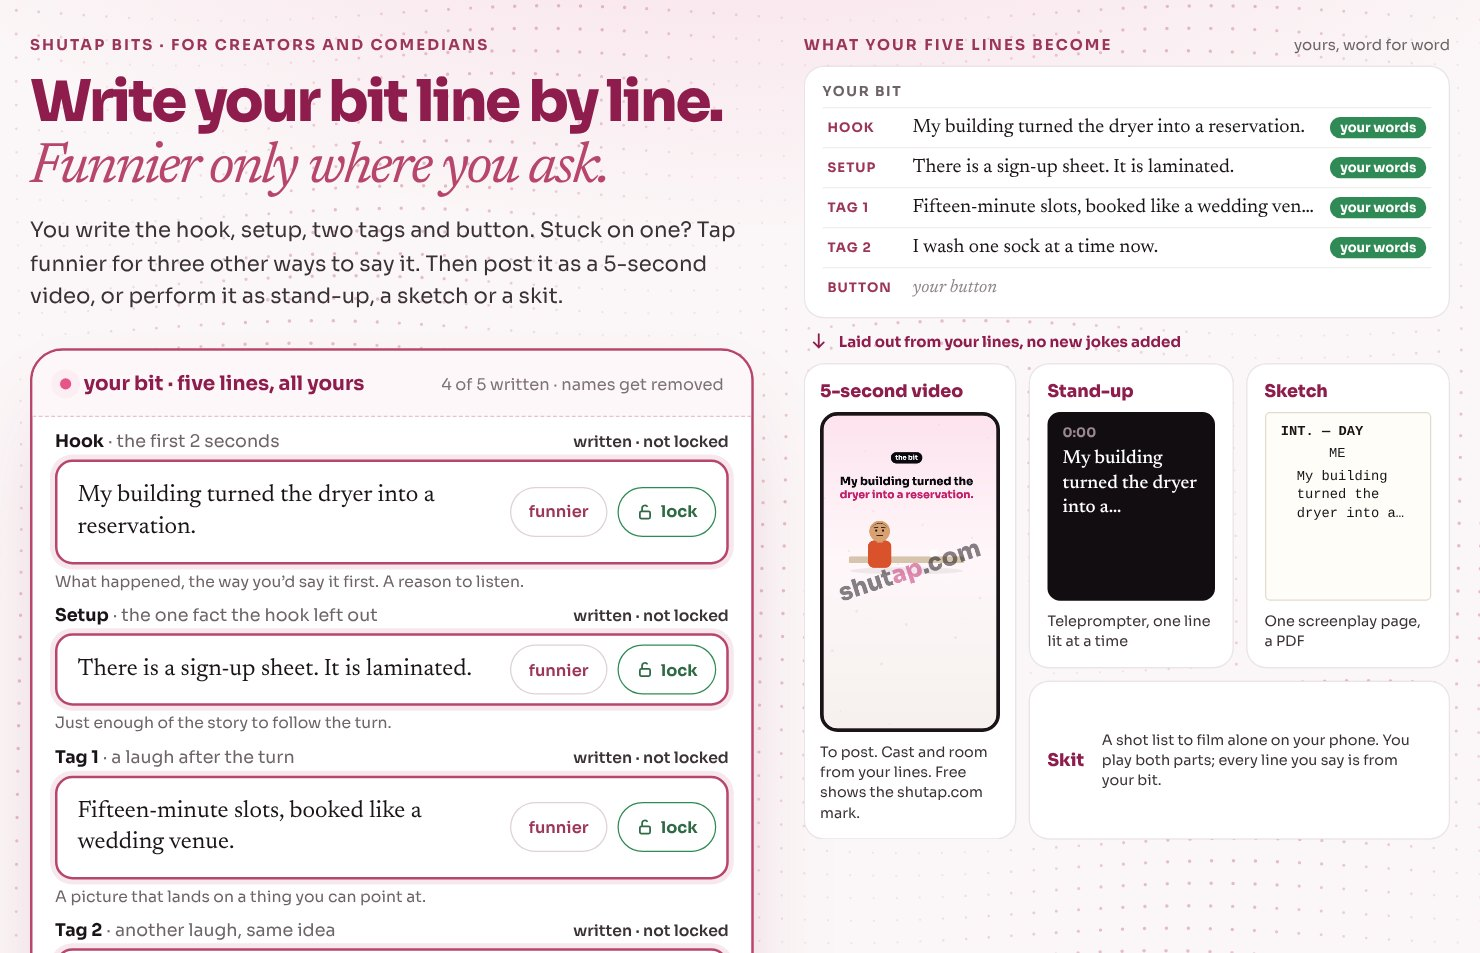
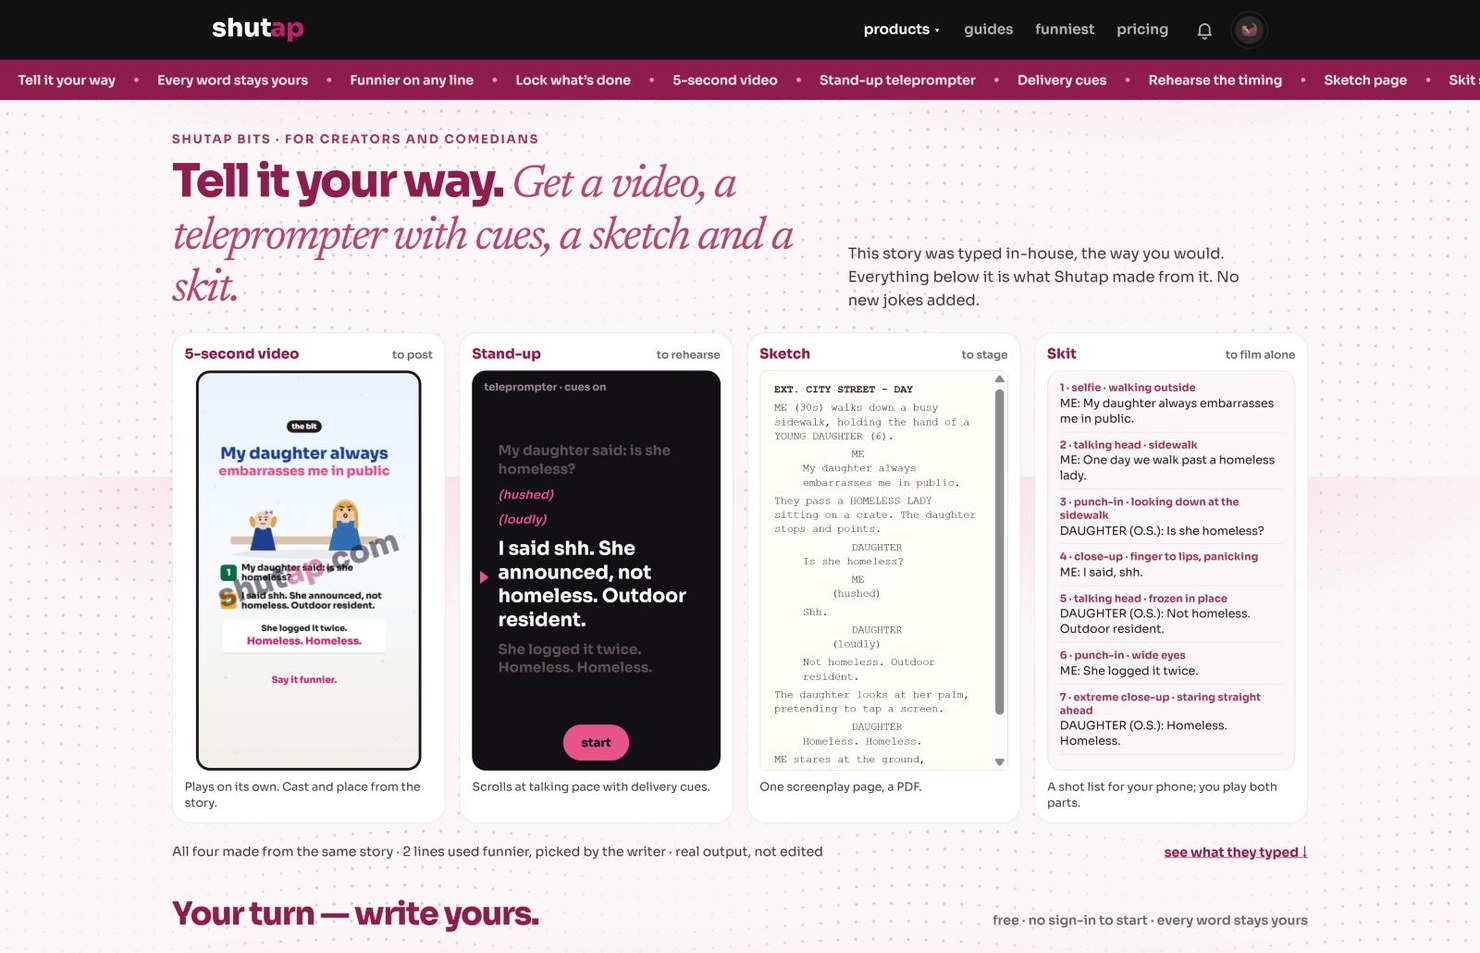
Homepage Bits: screenshot of the new /bits first screen (#276)
The homepage Bits section showed the old five-box page. New capture of the
live /bits (Nov 12): the demo bit's four outputs side by side, the video on
its last frame and the teleprompter on the line with its (hushed) and
(loudly) cues. The typing motion is removed (it was placed over the old
boxes); alt text updated.

Claude-Session: https://claude.ai/code/session_01VFctWuFxVfHjbi4UBffGEi

diff --git a/src/pages/home/ShotMotion.tsx b/src/pages/home/ShotMotion.tsx
@@ -16,16 +16,9 @@ type ShotEffect = Typing | Writing
 
 type ShotMotionSpec = { seconds: number; effects: ShotEffect[] }
 
-/** Bits (Nov 8 2026, the new /bits first screen): the writer types the hook
- *  (two lines in the capture), then the setup, into the five-line box. */
-const BITS: ShotMotionSpec = {
-  seconds: 10,
-  effects: [
-    { kind: 'type', box: { left: 5.24, top: 50.4, width: 24.64, height: 3.6 }, chars: 36, from: 4, to: 24, then: true },
-    { kind: 'type', box: { left: 5.24, top: 53.77, width: 8.52, height: 3.6 }, chars: 12, from: 25, to: 32 },
-    { kind: 'type', box: { left: 5.24, top: 68.64, width: 27.16, height: 3.6 }, chars: 42, from: 36, to: 58 },
-  ],
-}
+/** Bits (Nov 12 2026, the new /bits first screen): the four outputs of the
+ *  demo bit are the picture; nothing is typed over them, so no motion. */
+const BITS: ShotMotionSpec = { seconds: 10, effects: [] }
 
 /** Toasts: story 1 is typed, two lines. */
 const TOASTS: ShotMotionSpec = {

diff --git a/src/pages/home/ProductHome.tsx b/src/pages/home/ProductHome.tsx
@@ -93,7 +93,7 @@ const PRODUCTS: ProductLine[] = [
     gets: [['lines', 'Your bit'], ['video', '5-second video'], ['mic', 'Stand-up prompter'], ['page', 'Sketch page'], ['scene', 'Skit']],
     price: 'Free: 1 bit a day, video watermarked · Basic $19.99/mo: 3 a day · Pro $49.99/mo: unlimited',
     cta: 'Write my bit', href: '/bits',
-    shot: { src: '/home/bits.jpg', url: 'shutap.com/bits', w: 1480, h: 953, alt: 'The Shutap Bits writer: five lines typed by the writer, each with funnier and lock, beside what they become' },
+    shot: { src: '/home/bits.jpg', url: 'shutap.com/bits', w: 1480, h: 953, alt: 'Shutap Bits: one real bit as a 5-second video, a stand-up teleprompter with delivery cues, a sketch page and a skit shot list' },
   },
   {
     key: 'realtors', icon: 'realtors', name: 'Realtors', full: 'Shutap for Realtors', aud: 'for agents and brokerages', tab: 'listing videos',
